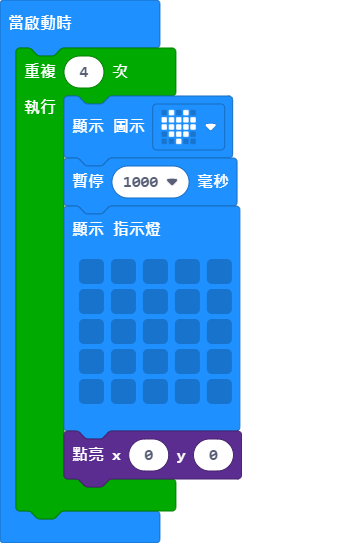
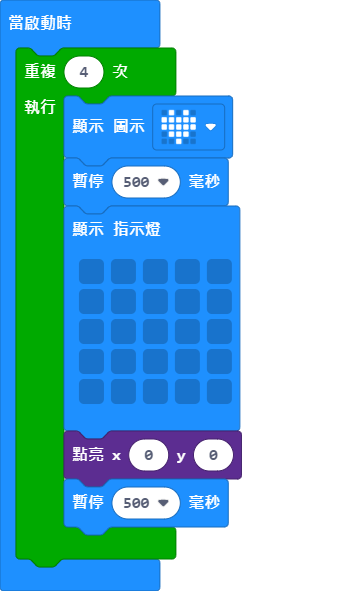
Update main.blocks, main.ts

Changed region(s): [[0.029, 0.0, 0.6957, 0.5893], [0.1739, 0.6777, 0.7246, 0.9134], [0.058, 0.9429, 0.4928, 0.9724]]

diff --git a/main.ts b/main.ts
@@ -1,6 +1,6 @@
 for (let index = 0; index < 4; index++) {
     basic.showIcon(IconNames.Heart)
-    basic.pause(1000)
+    basic.pause(500)
     basic.showLeds(`
         . . . . .
         . . . . .
@@ -9,4 +9,5 @@ for (let index = 0; index < 4; index++) {
         . . . . .
         `)
     led.plot(0, 0)
+    basic.pause(500)
 }
